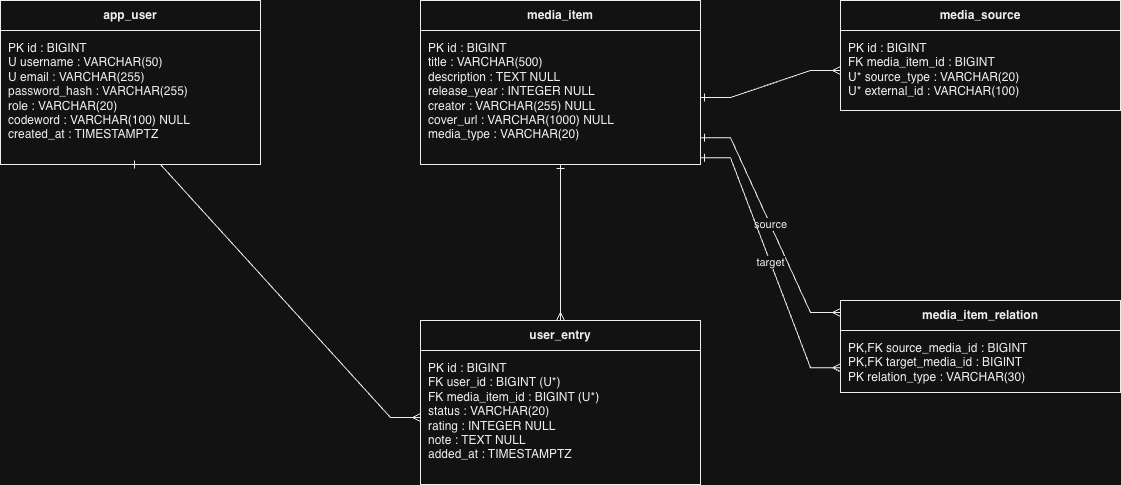
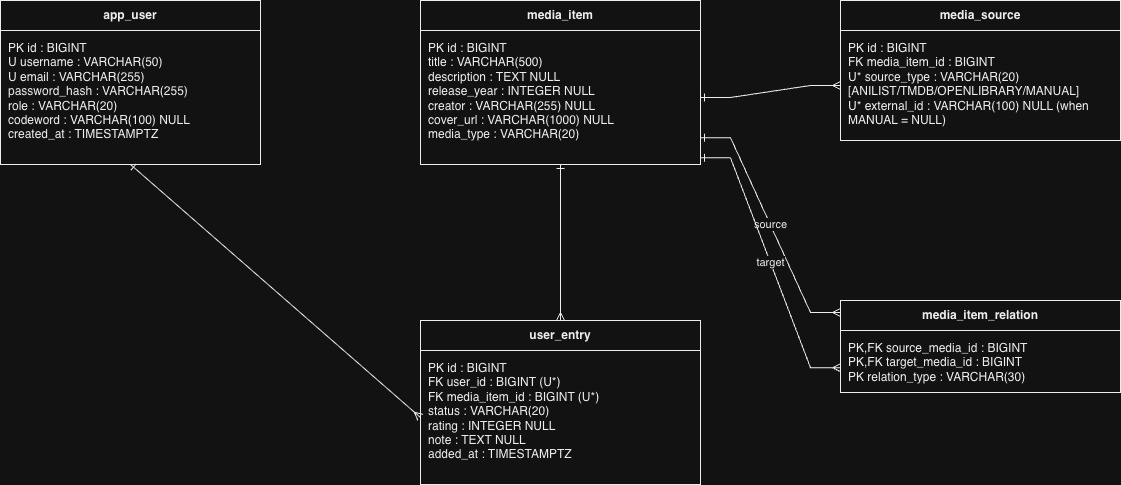
modified the Class-Diagram and added ADR-005 and Deployment Diagram

diff --git a/Documentation/ADRs/ADR-005.md b/Documentation/ADRs/ADR-005.md
@@ -1,0 +1,35 @@
+# ADR-005: Auth: start with sessions, move to JWT later
+
+## Status
+
+Accepted
+
+## Date
+
+08.08.2026
+
+## Context
+
+Someone logs in, and every request after that HTTP forgets who they are. So I need a way to keep that identity around. a Server-Side session would be enough for this App, but i also want to learn more complex tools, which is why im first going to implement Server-Side Sessions, but will migrate over to JWT after that.
+
+## Decision
+
+I'll do it in two steps. First a normal server-side session login (`HttpSession`
+via Spring Security) so I have working auth quickly. Later I'll rebuild it on JWT
+
+## Alternatives Considered
+
+- **Jump straight to JWT** 
+- **Just stick with sessions**: enough for the scale, but then I never touch the token side, which is the main thing I wanted to learn.
+- **Token in `localStorage`**: Any injected script can read it (XSS).
+
+## Consequences
+
+**Positive:**
+
+- Auth works early, and I get real hands-on with Spring Security, tokens and
+  revocation
+
+**Negative / Trade-offs:**
+
+- I'm basically building auth twice, and the refresh-token table needs a bit of cleanup logic that a pure session wouldn't.
